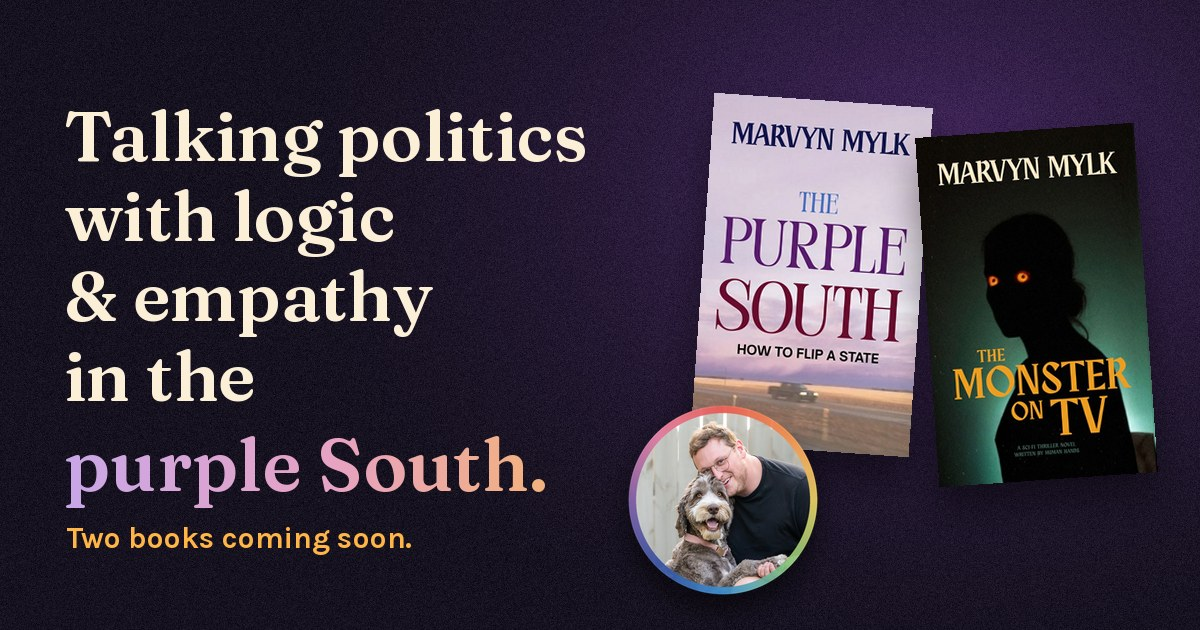
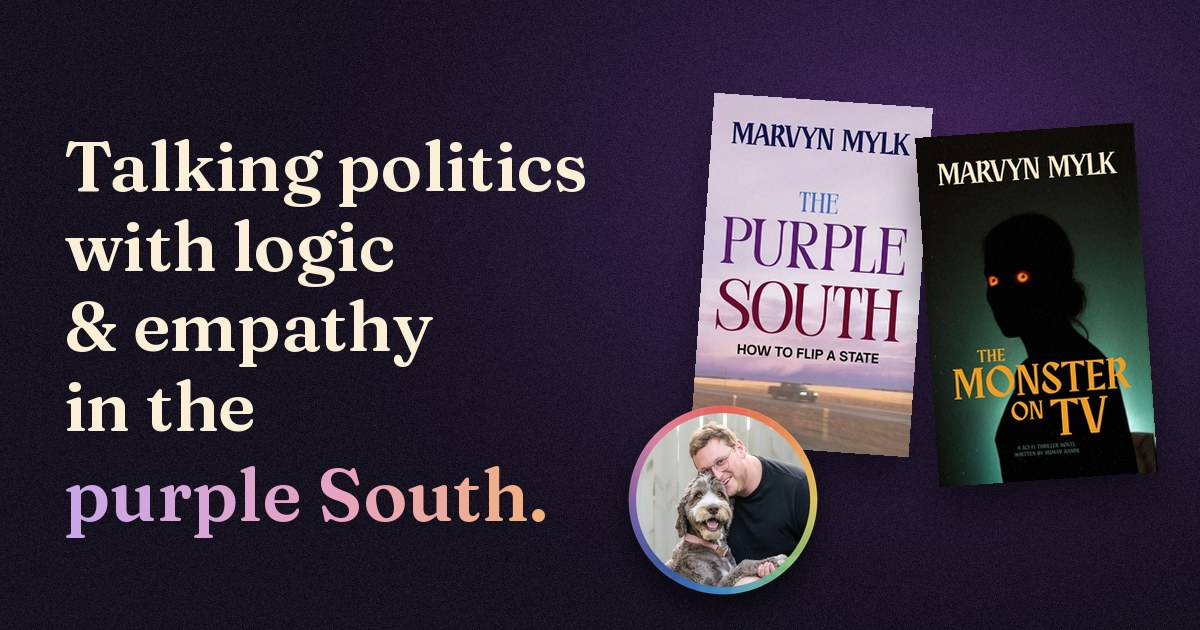
Fix clipped descenders in headline; simplify share image; add site rules
Share image is now built by tools/make_share_image.py from the profile
photo and both covers, and CLAUDE.md requires rebuilding it whenever
any of them change.

Claude-Session: https://claude.ai/code/session_01MxGceYvT6LnqY3PATehMyz

Changed region(s): [[0.0308, 0.1508, 0.4933, 0.8746]]

diff --git a/index.html b/index.html
@@ -64,7 +64,7 @@ a{color:inherit}
 h1{margin:0;font-family:var(--f-display);font-weight:var(--hw);font-size:var(--h1-size);line-height:var(--h1-lh);letter-spacing:var(--h1-ls);text-transform:var(--h-tt)}
 .herocta{display:inline-block;margin-top:34px;padding:15px 26px;border-radius:999px;background:var(--ember);color:#1b1004;text-decoration:none;font:700 17px var(--f-body);box-shadow:0 0 0 6px rgba(240,161,42,.14)}
 h1 span{display:block}
-h1 em{font-style:normal;display:block;margin-top:.12em;color:var(--lav-deep);background:linear-gradient(90deg,#c9a7e8,#e8a3c3 55%,#f3b37a);-webkit-background-clip:text;background-clip:text;-webkit-text-fill-color:transparent}
+h1 em{font-style:normal;display:block;margin-top:.12em;padding-bottom:.18em;margin-bottom:-.18em;color:var(--lav-deep);background:linear-gradient(90deg,#c9a7e8,#e8a3c3 55%,#f3b37a);-webkit-background-clip:text;background-clip:text;-webkit-text-fill-color:transparent}
 .hero .mid{margin-top:24px}
 .avatar{position:absolute;top:44px;right:max(16px,env(safe-area-inset-right,0px));width:clamp(124px,34vw,230px);aspect-ratio:1;border-radius:50%;
   box-shadow:0 26px 40px -18px rgba(0,0,0,.85);animation:drift 6.5s ease-in-out infinite;rotate:4deg}

diff --git a/tools/make_share_image.py b/tools/make_share_image.py
@@ -1,0 +1,45 @@
+"""Builds images/share.jpg (the link preview) from images/profile.webp and both cover images.
+Run after changing any of them:  python3 tools/make_share_image.py"""
+from PIL import Image, ImageDraw, ImageFont, ImageFilter
+import numpy as np
+import os
+ROOT=os.path.dirname(os.path.dirname(os.path.abspath(__file__))); R=ROOT+"/images/"; FD=ROOT+"/tools/fonts/"
+FR=lambda s: ImageFont.truetype(FD+"fraunces-latin-600-normal.woff", s)
+W,H=1200,630
+yy,xx=np.mgrid[0:H,0:W]
+r=np.sqrt(((xx-930)/700)**2+((yy-180)/520)**2)
+base=np.array([22,18,31],float); glow=np.array([70,40,98],float)
+t=np.clip(1-r,0,1)[...,None]**1.6
+arr=base+(glow-base)*t
+arr+=np.random.default_rng(3).normal(0,5,(H,W,1))
+im=Image.fromarray(np.clip(arr,0,255).astype(np.uint8)).convert("RGBA")
+
+def shadowed(layer, pos, blur=18, off=(0,22), alpha=170):
+    a=layer.getchannel("A"); sh=Image.new("RGBA",layer.size,(0,0,0,0)); sh.putalpha(a.point(lambda v: v*alpha//255))
+    pad=60; big=Image.new("RGBA",(layer.width+2*pad,layer.height+2*pad),(0,0,0,0)); big.paste(sh,(pad,pad),sh)
+    big=big.filter(ImageFilter.GaussianBlur(blur)); im.alpha_composite(big,(pos[0]-pad+off[0],pos[1]-pad+off[1])); im.alpha_composite(layer,pos)
+
+def cover(fn,h,ang):
+    c=Image.open(R+fn).convert("RGBA"); c=c.resize((round(c.width*h/c.height),h),Image.LANCZOS)
+    return c.rotate(ang,expand=True,resample=Image.BICUBIC)
+c1=cover("purple-south-cover.jpg",350,-4); c2=cover("monster-on-tv-cover.jpg",350,4)
+shadowed(c1,(690,92)); shadowed(c2,(915,122))
+p=Image.open(R+"profile.webp").convert("RGBA").resize((190,190),Image.LANCZOS)
+shadowed(p,(628,405),blur=14,off=(0,16),alpha=200)
+
+d=ImageDraw.Draw(im)
+CREAM=(251,239,216)
+lines=["Talking politics","with logic","& empathy","in the"]
+y=122
+for ln in lines:
+    d.text((64,y),ln,font=FR(70),fill=CREAM); y+=80
+# gradient last line
+f=FR(74); txt="purple South."
+bb=d.textbbox((0,0),txt,font=f); w,h=bb[2]+4,bb[3]+12
+mask=Image.new("L",(w,h),0); ImageDraw.Draw(mask).text((0,0),txt,font=f,fill=255)
+g=np.linspace(0,1,w)[None,:,None]
+stops=[np.array(c,float) for c in [(201,167,232),(232,163,195),(243,179,122)]]
+col=np.where(g<.55, stops[0]+(stops[1]-stops[0])*(g/.55), stops[1]+(stops[2]-stops[1])*((g-.55)/.45))
+grad=Image.fromarray(np.repeat(col,h,0).astype(np.uint8)).convert("RGBA"); grad.putalpha(mask)
+im.alpha_composite(grad,(64,y+6))
+im.convert("RGB").save(R+"share.jpg",quality=88)

diff --git a/CLAUDE.md b/CLAUDE.md
@@ -1,0 +1,12 @@
+# marvynmylk-site
+
+Marvyn Mylk's link-in-bio site. `index.html` is the whole page; photos and covers are in `images/`. Netlify republishes automatically on every push to `main`.
+
+## Rules
+
+- **Keep the link preview in sync.** `images/share.jpg` is built from `images/profile.webp`, `images/purple-south-cover.jpg` and `images/monster-on-tv-cover.jpg`. Whenever any of those three change (or the headline changes), rebuild it with `python3 tools/make_share_image.py`, check it, and commit it in the same change.
+- **The preview image is profile + both covers + headline only.** No subline, labels, handles or footer text.
+- **Keep Tyler (Marvyn's partner) out of every image.** He doesn't want to be public. Crop or edit him out of any photo before it goes on the site.
+- **No "AI tells" in design:** no small eyebrow labels, source footers, handle footers or page numbers.
+- **Sign-up forms** post to Netlify Forms (form name `book-news`). Keep `data-netlify="true"`, the hidden `form-name` input and the `bot-field` honeypot on both forms.
+- The `og:url` and `og:image` tags use the absolute address `https://marvynmylk.netlify.app`. Update them if the site's address changes.
